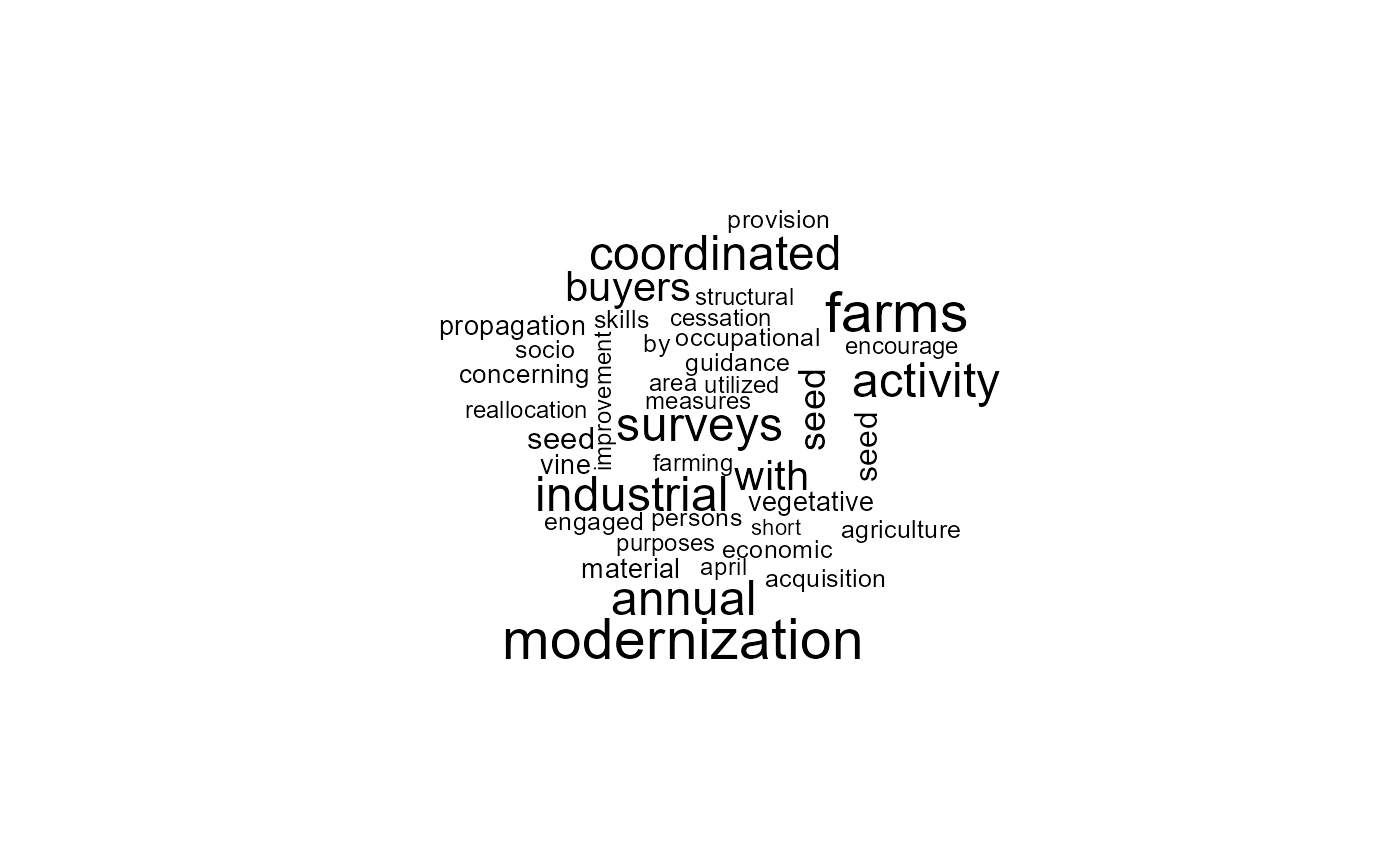
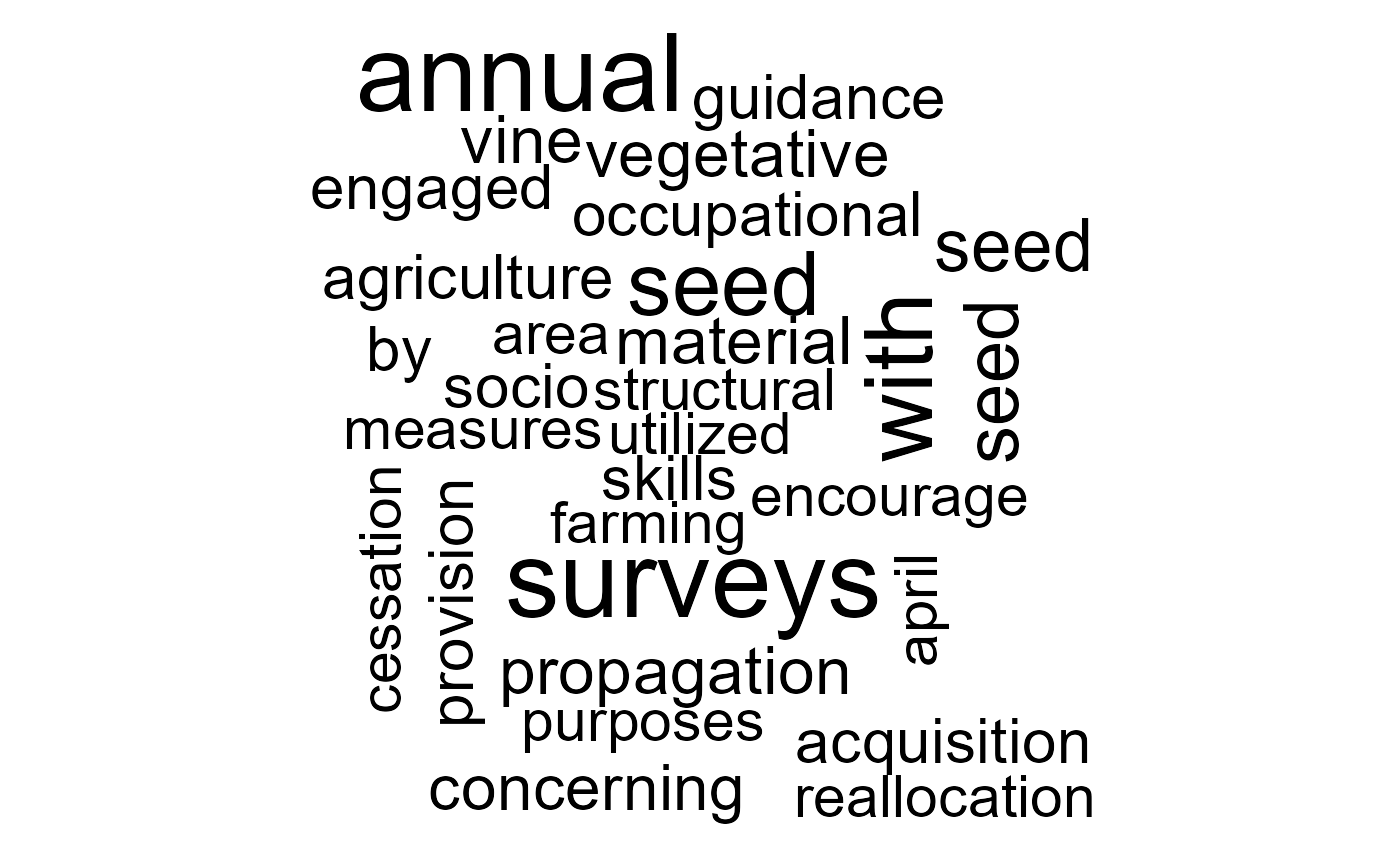
fix vignette

Changed region(s): [[0.215, 0.0312, 0.7986, 0.9676]]

diff --git a/doc/eurlexpkg.html b/doc/eurlexpkg.html
@@ -432,7 +432,7 @@ code span.wa { color: #60a0b0; font-weight: bold; font-style: italic; } /* Warni
 <span id="cb15-6"><a href="#cb15-6" aria-hidden="true" tabindex="-1"></a>  <span class="fu">theme</span>(<span class="at">axis.text.y =</span> <span class="fu">element_blank</span>(),</span>
 <span id="cb15-7"><a href="#cb15-7" aria-hidden="true" tabindex="-1"></a>        <span class="at">axis.line.y =</span> <span class="fu">element_blank</span>(),</span>
 <span id="cb15-8"><a href="#cb15-8" aria-hidden="true" tabindex="-1"></a>        <span class="at">axis.ticks.y =</span> <span class="fu">element_blank</span>())</span></code></pre></div>
[2 lines of base64/hex data omitted]
 <p>We want to know a bit more about some directives from the early 1970s that are still in force today. Their titles could give us a clue.</p>
 <div class="sourceCode" id="cb16"><pre class="sourceCode r"><code class="sourceCode r"><span id="cb16-1"><a href="#cb16-1" aria-hidden="true" tabindex="-1"></a>dirs_1970_title <span class="ot">&lt;-</span> dirs <span class="sc">%&gt;%</span> </span>
 <span id="cb16-2"><a href="#cb16-2" aria-hidden="true" tabindex="-1"></a>  <span class="fu">filter</span>(<span class="fu">between</span>(<span class="fu">as.Date</span>(date), <span class="fu">as.Date</span>(<span class="st">&quot;1970-01-01&quot;</span>), <span class="fu">as.Date</span>(<span class="st">&quot;1973-01-01&quot;</span>)),</span>
@@ -460,8 +460,8 @@ code span.wa { color: #60a0b0; font-weight: bold; font-style: italic; } /* Warni
 <span id="cb17-7"><a href="#cb17-7" aria-hidden="true" tabindex="-1"></a>  <span class="fu">count</span>(celex, word, <span class="at">sort =</span> <span class="cn">TRUE</span>) <span class="sc">%&gt;%</span> </span>
 <span id="cb17-8"><a href="#cb17-8" aria-hidden="true" tabindex="-1"></a>  <span class="fu">filter</span>(<span class="sc">!</span><span class="fu">grepl</span>(<span class="st">&quot;</span><span class="sc">\\</span><span class="st">d&quot;</span>, word)) <span class="sc">%&gt;%</span> </span>
 <span id="cb17-9"><a href="#cb17-9" aria-hidden="true" tabindex="-1"></a>  <span class="fu">bind_tf_idf</span>(word, celex, n) <span class="sc">%&gt;%</span> </span>
-<span id="cb17-10"><a href="#cb17-10" aria-hidden="true" tabindex="-1"></a>  <span class="fu">with</span>(<span class="fu">wordcloud</span>(word, tf_idf, <span class="at">max.words =</span> <span class="dv">40</span>, <span class="at">scale =</span> <span class="fu">c</span>(<span class="fl">1.8</span>,<span class="fl">0.1</span>)))</span></code></pre></div>
[1 lines of base64/hex data omitted]
+<span id="cb17-10"><a href="#cb17-10" aria-hidden="true" tabindex="-1"></a>  <span class="fu">with</span>(<span class="fu">wordcloud</span>(word, tf_idf, <span class="at">max.words =</span> <span class="dv">40</span>))</span></code></pre></div>
[1 lines of base64/hex data omitted]
 <p>I use term-frequency inverse-document frequency (tf-idf) to weight the importance of the words in the wordcloud. If we used pure frequencies, the wordcloud would largely consist of words conveying little meaning (“the”, “and”, …).</p>
 <p>This is an extremely basic application of the <code>eurlex</code> package. Much more sophisticated methods can be used to analyse both the content and metadata of European Union legislation. If the package is useful for your research, please cite the <a href="https://www.tandfonline.com/doi/full/10.1080/2474736X.2020.1870150">accompanying paper</a>.<a href="#fn4" class="footnote-ref" id="fnref4"><sup>4</sup></a></p>
 </div>

diff --git a/docs/reference/elx_curia_list.html b/docs/reference/elx_curia_list.html
@@ -82,23 +82,9 @@ disappeared from more recent cases.</p>
 
     <div id="ref-examples">
     <h2>Examples</h2>
-    <div class="sourceCode"><pre class="sourceCode r"><code><span class="r-in"><span class="co"># \donttest{</span></span>
+    <div class="sourceCode"><pre class="sourceCode r"><code><span class="r-in"><span class="kw">if</span> <span class="op">(</span><span class="cn">FALSE</span><span class="op">)</span> <span class="op">{</span></span>
 <span class="r-in"><span class="fu">elx_curia_list</span><span class="op">(</span>data <span class="op">=</span> <span class="st">"cst_all"</span><span class="op">)</span></span>
-<span class="r-out co"><span class="r-pr">#&gt;</span> <span style="color: #949494;"># A tibble: 1,759 x 6</span></span>
-<span class="r-out co"><span class="r-pr">#&gt;</span>    case_id    case_id_celex case_info                      ecli  see_case appeal</span>
-<span class="r-out co"><span class="r-pr">#&gt;</span>    <span style="color: #949494; font-style: italic;">&lt;chr&gt;</span>      <span style="color: #949494; font-style: italic;">&lt;chr&gt;</span>         <span style="color: #949494; font-style: italic;">&lt;chr&gt;</span>                          <span style="color: #949494; font-style: italic;">&lt;chr&gt;</span> <span style="color: #949494; font-style: italic;">&lt;chr&gt;</span>    <span style="color: #949494; font-style: italic;">&lt;chr&gt;</span> </span>
-<span class="r-out co"><span class="r-pr">#&gt;</span> <span style="color: #BCBCBC;"> 1</span> F-1/05 *   <span style="color: #BB0000;">NA</span>            Judgment of 26 October 2006, ~ ECLI~ <span style="color: #BB0000;">NA</span>       T-404~</span>
-<span class="r-out co"><span class="r-pr">#&gt;</span> <span style="color: #BCBCBC;"> 2</span> F-1/05     <span style="color: #BB0000;">NA</span>            Order of 22 May 2007, Landgre~ ECLI~ <span style="color: #BB0000;">NA</span>       <span style="color: #BB0000;">NA</span>    </span>
-<span class="r-out co"><span class="r-pr">#&gt;</span> <span style="color: #BCBCBC;"> 3</span> F-1/05 INT <span style="color: #BB0000;">NA</span>            Order of 13 July 2007, Landgr~ ECLI~ <span style="color: #BB0000;">NA</span>       <span style="color: #BB0000;">NA</span>    </span>
-<span class="r-out co"><span class="r-pr">#&gt;</span> <span style="color: #BCBCBC;"> 4</span> F-1/05     <span style="color: #BB0000;">NA</span>            Order of 9 November 2010, Lan~ ECLI~ <span style="color: #BB0000;">NA</span>       <span style="color: #BB0000;">NA</span>    </span>
-<span class="r-out co"><span class="r-pr">#&gt;</span> <span style="color: #BCBCBC;"> 5</span> F-2/05     <span style="color: #BB0000;">NA</span>            Removed from the register on ~ ECLI~ <span style="color: #BB0000;">NA</span>       <span style="color: #BB0000;">NA</span>    </span>
-<span class="r-out co"><span class="r-pr">#&gt;</span> <span style="color: #BCBCBC;"> 6</span> F-3/05     <span style="color: #BB0000;">NA</span>            Order of 15 May 2006, Schmit ~ ECLI~ <span style="color: #BB0000;">NA</span>       <span style="color: #BB0000;">NA</span>    </span>
-<span class="r-out co"><span class="r-pr">#&gt;</span> <span style="color: #BCBCBC;"> 7</span> F-4/05     <span style="color: #BB0000;">NA</span>            Removed from the register on ~ ECLI~ <span style="color: #BB0000;">NA</span>       <span style="color: #BB0000;">NA</span>    </span>
-<span class="r-out co"><span class="r-pr">#&gt;</span> <span style="color: #BCBCBC;"> 8</span> F-5/05 *   <span style="color: #BB0000;">NA</span>            Judgment of 28 April 2009, Vi~ ECLI~ <span style="color: #BB0000;">NA</span>       T-261~</span>
-<span class="r-out co"><span class="r-pr">#&gt;</span> <span style="color: #BCBCBC;"> 9</span> F-6/05     <span style="color: #BB0000;">NA</span>            Removed from the register on ~ ECLI~ <span style="color: #BB0000;">NA</span>       <span style="color: #BB0000;">NA</span>    </span>
-<span class="r-out co"><span class="r-pr">#&gt;</span> <span style="color: #BCBCBC;">10</span> F-7/05     <span style="color: #BB0000;">NA</span>            Schmit / Commission (F-7/05) ~ <span style="color: #BB0000;">NA</span>    F-5/05   <span style="color: #BB0000;">NA</span>    </span>
-<span class="r-out co"><span class="r-pr">#&gt;</span> <span style="color: #949494;"># ... with 1,749 more rows</span></span>
-<span class="r-in"><span class="co"># }</span></span>
+<span class="r-in"><span class="op">}</span></span>
 </code></pre></div>
     </div>
   </div>

diff --git a/docs/articles/eurlexpkg.html b/docs/articles/eurlexpkg.html
@@ -435,7 +435,7 @@
   <span class="fu"><a href="https://dplyr.tidyverse.org/reference/count.html" class="external-link">count</a></span><span class="op">(</span><span class="va">celex</span>, <span class="va">word</span>, sort <span class="op">=</span> <span class="cn">TRUE</span><span class="op">)</span> <span class="op"><a href="https://purrr.tidyverse.org/reference/pipe.html" class="external-link">%&gt;%</a></span> 
   <span class="fu"><a href="https://dplyr.tidyverse.org/reference/filter.html" class="external-link">filter</a></span><span class="op">(</span><span class="op">!</span><span class="fu"><a href="https://rdrr.io/r/base/grep.html" class="external-link">grepl</a></span><span class="op">(</span><span class="st">"\\d"</span>, <span class="va">word</span><span class="op">)</span><span class="op">)</span> <span class="op"><a href="https://purrr.tidyverse.org/reference/pipe.html" class="external-link">%&gt;%</a></span> 
   <span class="fu"><a href="https://rdrr.io/pkg/tidytext/man/bind_tf_idf.html" class="external-link">bind_tf_idf</a></span><span class="op">(</span><span class="va">word</span>, <span class="va">celex</span>, <span class="va">n</span><span class="op">)</span> <span class="op"><a href="https://purrr.tidyverse.org/reference/pipe.html" class="external-link">%&gt;%</a></span> 
-  <span class="fu"><a href="https://rdrr.io/r/base/with.html" class="external-link">with</a></span><span class="op">(</span><span class="fu"><a href="https://rdrr.io/pkg/wordcloud/man/wordcloud.html" class="external-link">wordcloud</a></span><span class="op">(</span><span class="va">word</span>, <span class="va">tf_idf</span>, max.words <span class="op">=</span> <span class="fl">40</span>, scale <span class="op">=</span> <span class="fu"><a href="https://rdrr.io/r/base/c.html" class="external-link">c</a></span><span class="op">(</span><span class="fl">1.8</span>,<span class="fl">0.1</span><span class="op">)</span><span class="op">)</span><span class="op">)</span></code></pre></div>
+  <span class="fu"><a href="https://rdrr.io/r/base/with.html" class="external-link">with</a></span><span class="op">(</span><span class="fu"><a href="https://rdrr.io/pkg/wordcloud/man/wordcloud.html" class="external-link">wordcloud</a></span><span class="op">(</span><span class="va">word</span>, <span class="va">tf_idf</span>, max.words <span class="op">=</span> <span class="fl">40</span><span class="op">)</span><span class="op">)</span></code></pre></div>
 <p><img src="eurlexpkg_files/figure-html/wordcloud-1.png" width="700"></p>
 <p>I use term-frequency inverse-document frequency (tf-idf) to weight the importance of the words in the wordcloud. If we used pure frequencies, the wordcloud would largely consist of words conveying little meaning (“the”, “and”, …).</p>
 <p>This is an extremely basic application of the <code>eurlex</code> package. Much more sophisticated methods can be used to analyse both the content and metadata of European Union legislation. If the package is useful for your research, please cite the <a href="https://www.tandfonline.com/doi/full/10.1080/2474736X.2020.1870150" class="external-link">accompanying paper</a>.<a href="#fn4" class="footnote-ref" id="fnref4"><sup>4</sup></a></p>

diff --git a/docs/reference/elx_label_eurovoc.html b/docs/reference/elx_label_eurovoc.html
@@ -76,17 +76,10 @@
 
     <div id="ref-examples">
     <h2>Examples</h2>
-    <div class="sourceCode"><pre class="sourceCode r"><code><span class="r-in"><span class="fu">elx_label_eurovoc</span><span class="op">(</span>uri_eurovoc <span class="op">=</span> <span class="st">"http://eurovoc.europa.eu/5760"</span>, alt_labels <span class="op">=</span> <span class="cn">TRUE</span>, language <span class="op">=</span> <span class="st">"fr"</span><span class="op">)</span></span>
-<span class="r-out co"><span class="r-pr">#&gt;</span> <span style="color: #949494;"># A tibble: 1 x 2</span></span>
-<span class="r-out co"><span class="r-pr">#&gt;</span>   eurovoc                       labels                        </span>
-<span class="r-out co"><span class="r-pr">#&gt;</span>   <span style="color: #949494; font-style: italic;">&lt;chr&gt;</span>                         <span style="color: #949494; font-style: italic;">&lt;chr&gt;</span>                         </span>
-<span class="r-out co"><span class="r-pr">#&gt;</span> <span style="color: #BCBCBC;">1</span> http://eurovoc.europa.eu/5760 oiseau,oiseau migrateur,rapace</span>
+    <div class="sourceCode"><pre class="sourceCode r"><code><span class="r-in"><span class="kw">if</span> <span class="op">(</span><span class="cn">FALSE</span><span class="op">)</span> <span class="op">{</span></span>
+<span class="r-in"><span class="fu">elx_label_eurovoc</span><span class="op">(</span>uri_eurovoc <span class="op">=</span> <span class="st">"http://eurovoc.europa.eu/5760"</span>, alt_labels <span class="op">=</span> <span class="cn">TRUE</span>, language <span class="op">=</span> <span class="st">"fr"</span><span class="op">)</span></span>
 <span class="r-in"><span class="fu">elx_label_eurovoc</span><span class="op">(</span>uri_eurovoc <span class="op">=</span> <span class="fu"><a href="https://rdrr.io/r/base/c.html" class="external-link">c</a></span><span class="op">(</span><span class="st">"http://eurovoc.europa.eu/5760"</span>,<span class="st">"http://eurovoc.europa.eu/576"</span><span class="op">)</span><span class="op">)</span></span>
-<span class="r-out co"><span class="r-pr">#&gt;</span> <span style="color: #949494;"># A tibble: 2 x 2</span></span>
-<span class="r-out co"><span class="r-pr">#&gt;</span>   eurovoc                       labels     </span>
-<span class="r-out co"><span class="r-pr">#&gt;</span>   <span style="color: #949494; font-style: italic;">&lt;chr&gt;</span>                         <span style="color: #949494; font-style: italic;">&lt;chr&gt;</span>      </span>
-<span class="r-out co"><span class="r-pr">#&gt;</span> <span style="color: #BCBCBC;">1</span> http://eurovoc.europa.eu/5760 bird       </span>
-<span class="r-out co"><span class="r-pr">#&gt;</span> <span style="color: #BCBCBC;">2</span> http://eurovoc.europa.eu/576  private law</span>
+<span class="r-in"><span class="op">}</span></span>
 </code></pre></div>
     </div>
   </div>

diff --git a/docs/reference/elx_run_query.html b/docs/reference/elx_run_query.html
@@ -83,8 +83,8 @@ Column `work` contains the Cellar URI of the resource.</p>
     <div id="ref-examples">
     <h2>Examples</h2>
     <div class="sourceCode"><pre class="sourceCode r"><code><span class="r-in"><span class="co"># \donttest{</span></span>
-<span class="r-in"><span class="fu">elx_run_query</span><span class="op">(</span><span class="fu"><a href="elx_make_query.html">elx_make_query</a></span><span class="op">(</span><span class="st">"directive"</span>, include_force <span class="op">=</span> <span class="cn">TRUE</span><span class="op">)</span><span class="op">)</span></span>
-<span class="r-out co"><span class="r-pr">#&gt;</span> <span style="color: #949494;"># A tibble: 4,401 x 4</span></span>
+<span class="r-in"><span class="fu">elx_run_query</span><span class="op">(</span><span class="fu"><a href="elx_make_query.html">elx_make_query</a></span><span class="op">(</span><span class="st">"directive"</span>, include_force <span class="op">=</span> <span class="cn">TRUE</span>, limit <span class="op">=</span> <span class="fl">10</span><span class="op">)</span><span class="op">)</span></span>
+<span class="r-out co"><span class="r-pr">#&gt;</span> <span style="color: #949494;"># A tibble: 10 x 4</span></span>
 <span class="r-out co"><span class="r-pr">#&gt;</span>    work                                                        type  celex force</span>
 <span class="r-out co"><span class="r-pr">#&gt;</span>    <span style="color: #949494; font-style: italic;">&lt;chr&gt;</span>                                                       <span style="color: #949494; font-style: italic;">&lt;chr&gt;</span> <span style="color: #949494; font-style: italic;">&lt;chr&gt;</span> <span style="color: #949494; font-style: italic;">&lt;chr&gt;</span></span>
 <span class="r-out co"><span class="r-pr">#&gt;</span> <span style="color: #BCBCBC;"> 1</span> http://publications.europa.eu/resource/cellar/469391ea-6c7~ http~ 3197~ false</span>
@@ -97,7 +97,6 @@ Column `work` contains the Cellar URI of the resource.</p>
 <span class="r-out co"><span class="r-pr">#&gt;</span> <span style="color: #BCBCBC;"> 8</span> http://publications.europa.eu/resource/cellar/311441f3-787~ http~ 3196~ false</span>
 <span class="r-out co"><span class="r-pr">#&gt;</span> <span style="color: #BCBCBC;"> 9</span> http://publications.europa.eu/resource/cellar/eebd7224-5f8~ http~ 3197~ false</span>
 <span class="r-out co"><span class="r-pr">#&gt;</span> <span style="color: #BCBCBC;">10</span> http://publications.europa.eu/resource/cellar/f2e14ae4-6ba~ http~ 3198~ false</span>
-<span class="r-out co"><span class="r-pr">#&gt;</span> <span style="color: #949494;"># ... with 4,391 more rows</span></span>
 <span class="r-in"><span class="co"># }</span></span>
 </code></pre></div>
     </div>

diff --git a/docs/reference/elx_fetch_data.html b/docs/reference/elx_fetch_data.html
@@ -92,10 +92,9 @@
 
     <div id="ref-examples">
     <h2>Examples</h2>
-    <div class="sourceCode"><pre class="sourceCode r"><code><span class="r-in"><span class="co"># \donttest{</span></span>
+    <div class="sourceCode"><pre class="sourceCode r"><code><span class="r-in"><span class="kw">if</span> <span class="op">(</span><span class="cn">FALSE</span><span class="op">)</span> <span class="op">{</span></span>
 <span class="r-in"><span class="fu">elx_fetch_data</span><span class="op">(</span>url <span class="op">=</span> <span class="st">"http://publications.europa.eu/resource/celex/32014R0001"</span>, type <span class="op">=</span> <span class="st">"title"</span><span class="op">)</span></span>
-<span class="r-out co"><span class="r-pr">#&gt;</span> [1] "Commission Delegated Regulation (EU) No 1/2014 of 28 August 2013 establishing Annex III to Regulation (EU) No 978/2012 of the European Parliament and of the Council applying a scheme of generalised tariff preferences"</span>
-<span class="r-in"><span class="co"># }</span></span>
+<span class="r-in"><span class="op">}</span></span>
 </code></pre></div>
     </div>
   </div>
